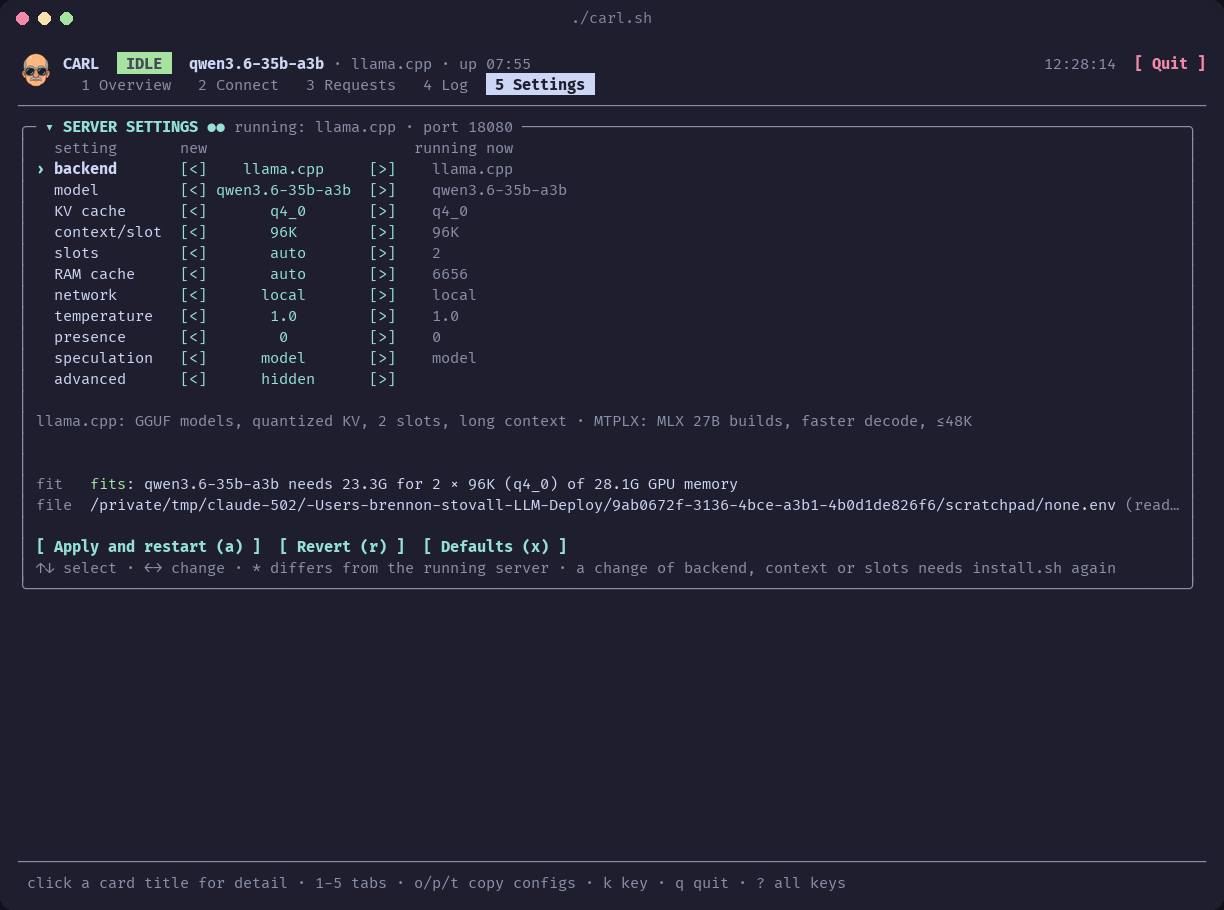
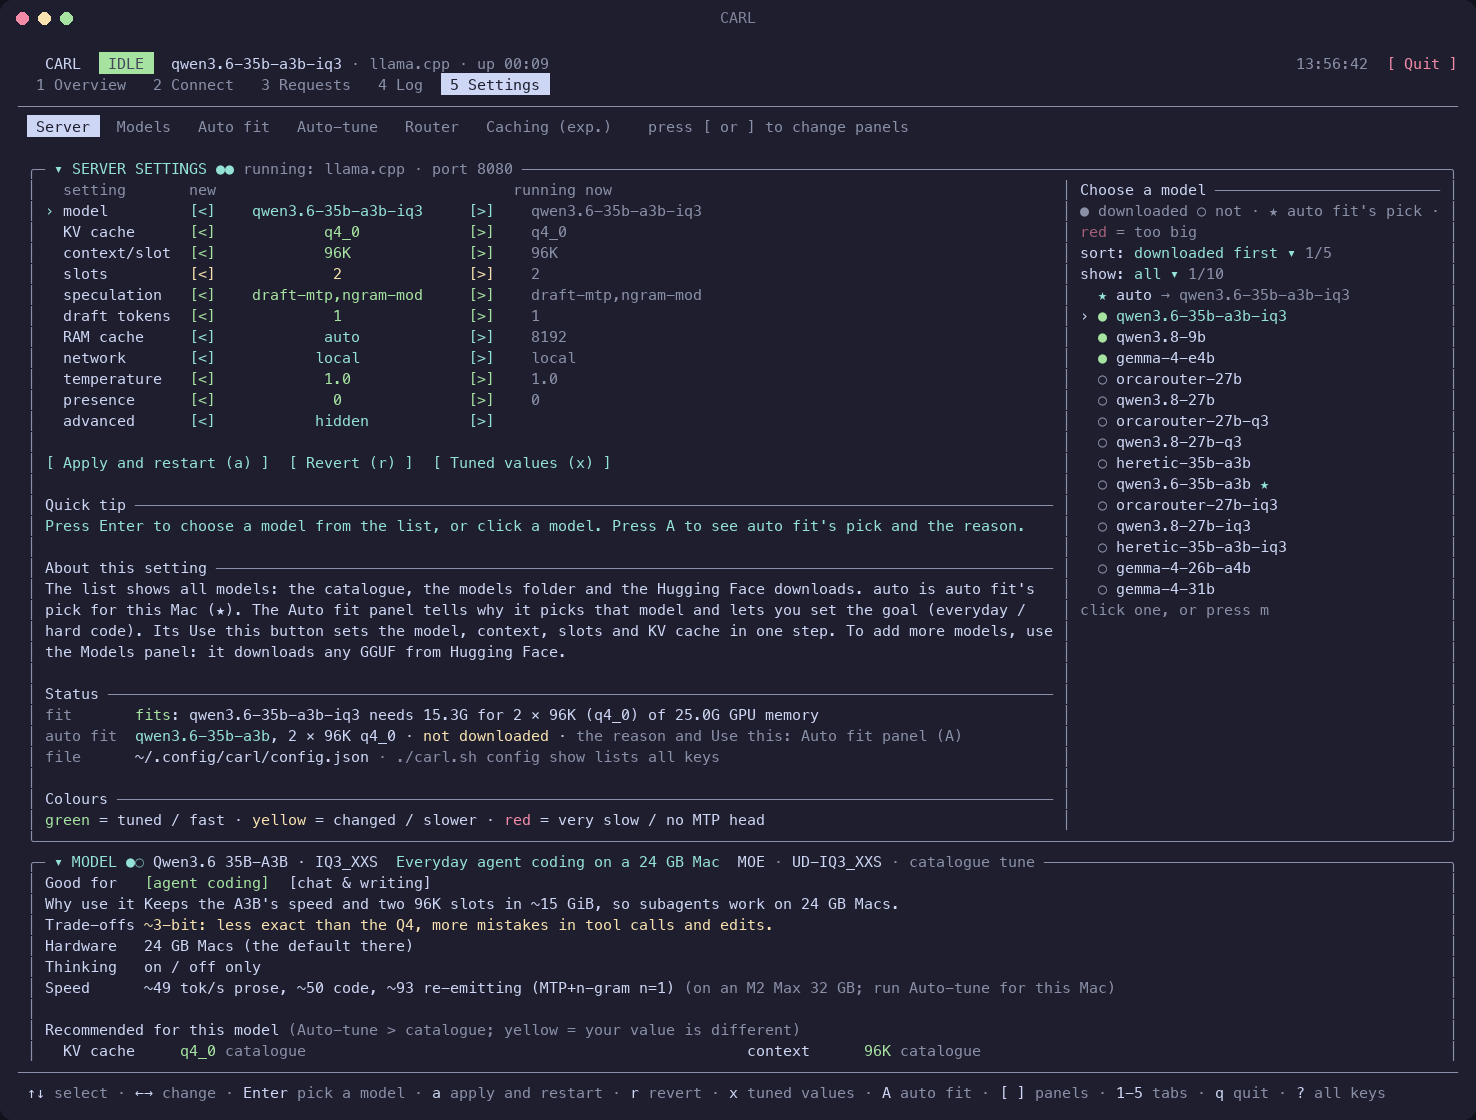
Release 1.3.0: Phase Z end-to-end, screenshots, CHANGELOG
- Fresh-clone end-to-end run (empty HOME): every CLI command, the dashboard's first
  start and every tab and panel, OpenCode (the /carl panel, the coder in the
  background, the subagents panel) and Pi (the coder in the background, /subagents).
- New screenshots: the Settings tab, OpenCode with the plugins, the Caching panel,
  Pi's background coder.
- The quit dialog's buttons fit; the CHANGELOG dates 1.3.0 with the Phase Z entries;
  the plan records what Z found for Phases 21 and Y.

diff --git a/tools/monitor/views.py b/tools/monitor/views.py
@@ -269,11 +269,12 @@ def quit_dialog(d: ServerData, ui: UIState, cols: int, height: int) -> List[Row]
     """Quit: stop the server, leave it running, or cancel."""
     pid = d.target_pid
     alive = pid and not d.exited and not ui.stopping
-    w = min(70, cols - 4)
+    w = min(76, cols - 4)                   # room for the three buttons on one line
     lines: List[CardLine] = [""]
     if alive:
         lines += [f"The server (pid {pid}) still runs.", "",
-                  buttons("  ", [("Stop server (s)", "stop"), ("Leave it running (d)", "detach"), ("Cancel (Esc)", "cancel")]),
+                  *button_rows("  ", [("Stop server (s)", "stop"), ("Leave it running (d)", "detach"),
+                                      ("Cancel (Esc)", "cancel")], w - 4),
                   "", *cwrap(f"{DIM}Leave it running: the server continues. To attach again, run ./carl.sh monitor.{R}",
                              w - 4)]
     else:

diff --git a/CHANGELOG.md b/CHANGELOG.md
@@ -3,7 +3,7 @@
 All notable changes to CARL. The format follows [Keep a Changelog](https://keepachangelog.com/en/1.1.0/).
 Dates are local dates on the development Mac (M3 Pro, 36 GB).
 
-## Unreleased (1.3.0)
+## 1.3.0 - 2026-10-04
 
 Auto fit: the best stock model for this Mac, and a start that doesn't fit is refused. Custom models get a card you write. The server serves this Mac only unless asked, and the dashboard installs the clients. OpenCode and Pi list the models really installed, under their own names, and router mode (opt-in) lets them switch models.
 
@@ -72,7 +72,16 @@ Auto fit: the best stock model for this Mac, and a start that doesn't fit is ref
 - **The dashboard's fit line, slot choices, largest windows and auto fit know sliding-window models:** they plan Gemma's cache as the launcher does (`cache.swa`), and the fit line says which cache a start gets.
 - **The reference pages are in ASD-STE100** and were checked against the code (36 corrections).
 
+- **Code pass (Phase Z):** the dashboard's Settings view and controller split by panel and area; one GGUF parser; `configure.py` as pure merge functions behind a filesystem port (62 install scenarios checked byte for byte); a shared TUI module for the session switcher and the subagents panel; TypeScript strict checks on the plugins (0 errors); the bench tools default to 127.0.0.1.
+- **Docs:** the user guide and README in ASD-STE100 (the README is short); `reference/README.md` is the index (no top-level REFERENCE.md); one **Caching** page; cache results as waiting time; `reference/client-configs.md`; new screenshots.
 ### Fixed
+- **Auto showed the wrong model** in the dashboard after a dead-code pass removed `carl.resolve_launch` (the dashboard calls it through an untyped handle); a test now checks every `carl.py` name the dashboard uses.
+- **The dashboard's averages** showed 1,000,000 tok/s after a 1-token reply; an average now needs 0.5 s of data.
+- **`?` worked only in the Server panel** of the Settings tab; it works in every panel now. The quit dialog's buttons no longer get cut.
+- **The dashboard API was open when no key was known**, and a negative or bad Content-Length read until the client closed; it fails closed now and checks the length. State files (claims, records, turn marks, clients) are 0600 and written atomically, on both sides.
+- **A broken Pi config** stopped the installer only after other configs were written; all configs are checked before any write.
+- **The client sync service** stopped on a config without a version or a cut stream; it checks its inputs and reconnects.
+- **Paths from the cache's records and patches** are used only when they are plain file names.
 - **Gemma 4 26B and 31B: the KV cache counted as free.** Their headers give the KV heads per layer; CARL read none, so fit, `--check` and auto fit ignored the cache (a 31B at 2 × 96K with the full cache needs 64 GiB). The headers cached from Hugging Face are read again once.
 - **`--local` and `--vm` lost to a saved address:** a `llama.host` in config.json (or `HOST`) won, so `./carl.sh --local` could serve on a LAN address. The flags win now; `--host` wins over everything.
 - **The sync service** (found by the Docker test): a client folder whose path has a space did not start under systemd; an install did not restart a running service (the old code kept running); concurrent writes could break `client-sync.json`; `connected` stayed true after the stream ended. The dashboard's Clients list showed a client that left as connected for up to ~50 s and with the config it had when it connected; now at once, with what it reported last.

diff --git a/USERGUIDE.md b/USERGUIDE.md
@@ -530,6 +530,8 @@ OpenCode and Pi run a subagent as a separate conversation (a child session).
 
 The coder subagent runs in the background, in OpenCode and in Pi.
 
+![Pi: the coder in the background, and its result as a message](assets/pi-subagent.png)
+
 1. The main agent starts the coder and tells you what it does.
 2. The main session is then free. You can ask it other things while the coder works in the other slot.
 3. When the coder ends, its result comes back to the main session as a message.
@@ -730,6 +732,8 @@ The server keeps the conversations that it read in memory: in its slots, and in 
 - The server restarts.
 - Router mode changes the model.
 - Many other sessions push a conversation out.
+
+![The Caching panel](assets/caching.png)
 
 The next request then reads the whole prompt again. This is OpenCode's system prompt and tools (~8–10K tokens: ~13–17 s on the 35B, ~2 min on the 27B). In a session that continues, it is also the whole conversation (minutes for a long one).
 
